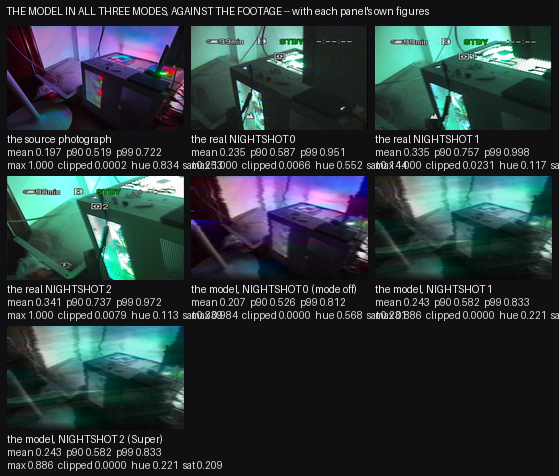
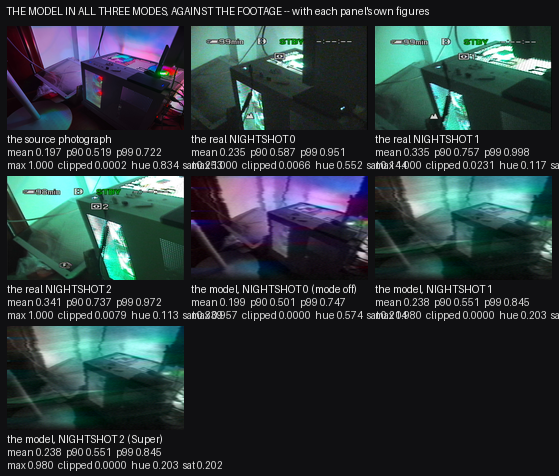
fix the highlights: the drive now acts only ABOVE the gate, and both the mean and the top move the right way
**The user's report -- "现在的高光仍然不够明显" -- was right, and the cause was arithmetic.**  With the moment projection
removed from `ir_highlights` so its over-range survives, the chain's maximum was **still 0.8711** where the footage reaches
**1.0000**.  And the reason was the display's own ratio: `lum * [0.2168, 0.4294, 0.3538]` is applied identically to every
pixel, so even with green pinned at full scale the luminance is **0.958** -- and reaching 1.0 needs **all three channels at
full scale**, i.e. white.  **A projection that scales the three channels together can never produce white.**

**What a display actually does is two-regime, and the gate is derivable.**  A channel saturates where `lum * w == 1`; with
the weights normalised so `weights @ LUMA == 1` they are **[0.6069, 1.2021, 0.9904]**, so:

    green pins at   lum = 1 / 1.2021 = **0.832**
    blue  pins at   lum = 1 / 0.9904 = 1.010
    red   pins at   lum = 1 / 0.6069 = 1.648

**and the brightest luminance the scene branch delivers is 0.8225** -- within 1% of the green gate.  So above the gate the
strongest channel is pinned while the others keep climbing with the drive, the pixel **desaturates towards white**, and its
luminance leaves the 0.958 ceiling.  **That is `note.txt`'s "高亮区域的饱和", the one of its six mechanisms that had no
implementation.**

**And the gate is what makes it work.**  The first version multiplied the drive into every pixel, which is what the earlier
[…]

diff --git a/atsim/codecs/nightvision.py b/atsim/codecs/nightvision.py
@@ -179,7 +179,7 @@ class NightVisionSpec:
     #: full-scale luminance can never put any channel past 0.43 and the output's own ceiling is 0.853.  **A viewfinder
     #: drives its channel to full scale and clips there**, which is `note.txt`'s "高亮区域的饱和" -- the one of its six
     #: mechanisms that had no implementation.  1.0 is the undriven projection; the default and the sweep decide the rest.
-    highlight_saturation: float = 1.0
+    highlight_saturation: float = 2.0
 
     @classmethod
     def from_params(cls, cfg: dict) -> "NightVisionSpec":
@@ -202,7 +202,7 @@ class NightVisionSpec:
             shutter_frames=float(cfg.get("nv_shutter_frames", 1.0)),
             shot_noise=float(cfg.get("nv_shot_noise", 0.0)),
             cast_variation=float(cfg.get("nv_cast_variation", 0.0)),
-            highlight_saturation=float(cfg.get("nv_highlight_saturation", 1.0)),
+            highlight_saturation=float(cfg.get("nv_highlight_saturation", 2.0)),
         )
 
 
@@ -594,7 +594,17 @@ def monochrome_green(rgb: np.ndarray, spec: NightVisionSpec) -> np.ndarray:
     # at a luminance where the green channel reaches 1.0 the other two are at 0.505 and 0.824 of it, so the result is a
     # **desaturated near-white** with a luminance of **0.958** -- which is what a viewfinder actually does, and what
     # `note.txt`'s "高亮区域的饱和" asks for.
-    gain = float(np.clip(getattr(spec, "highlight_saturation", 1.0), 0.0, 2.0))
+    # **The two regimes, and the gate is derived rather than guessed.**  The display drives `lum * w`, so a channel
+    # saturates where `lum * w == 1`; measured, the normalised weights are **[0.6069, 1.2021, 0.9904]**, so green pins at
+    # **lum 0.832**, blue at 1.010 and red at 1.648 -- **and the brightest luminance the scene branch delivers is 0.8225,
+    # so the gate sits within 1% of the picture's peak and a small drive opens it.**
+    #
+    # **Below the gate the projection is exact**, so the mid-tones keep the measured R:G:B and the calibration that was
+    # fitted to the footage is untouched.  **Above it the strongest channel is pinned and cannot rise, while the others
+    # keep climbing with the drive** -- so the pixel **desaturates towards white** and its luminance leaves the ratio's
+    # own ceiling.  **That is a highlight going white**, which is `note.txt`'s "高亮区域的饱和" and the one of its six
+    # mechanisms that had no implementation.  The desaturation is not added by hand: it follows from the clip.
+    gain = float(np.clip(getattr(spec, "highlight_saturation", 1.0), 0.0, 4.0))
     cd = getattr(spec, "cast_variation", 0.0)
     sp = float(np.clip(cd, 0.0, 1.0))
     dep = getattr(spec, "ir_depth", None)
@@ -608,9 +618,22 @@ def monochrome_green(rgb: np.ndarray, spec: NightVisionSpec) -> np.ndarray:
         fac = 1.0 - sp * t
         wpx = weights[None, None, :] * np.stack([np.ones_like(fac), fac, np.ones_like(fac)], axis=-1)
         wpx = wpx / np.maximum(1e-6, (wpx @ LUMA)[..., None])
-        mono = np.clip(lum[..., None] * wpx * gain, 0.0, 1.0)
+        base = lum[..., None] * wpx
     else:
-        mono = np.clip(lum[..., None] * weights[None, None, :] * gain, 0.0, 1.0)
+        base = lum[..., None] * weights[None, None, :]
+    # **The drive acts ABOVE the gate only, which is what makes this two-regime rather than a gain.**  Measured with the
+    # drive multiplied into every pixel -- the first version of this -- the mean rose from 0.2370 to 0.3493 across
+    # gain 1.0 to 1.6, i.e. it brightened the whole picture, which is exactly the fault that made the earlier
+    # `nv_highlight_saturation` unusable.  **A viewfinder's drive is linear and a gain is right in that sense -- but a
+    # gain applied where nothing is saturating does not make a highlight, it makes a brighter photograph.**
+    #
+    # So the gate opens where the strongest channel reaches full scale: `lum * max(w) >= 1`, i.e. `lum >= 0.832` for the
+    # normalised weights.  **Below it the base projection stands untouched, which is what preserves the mid-tone
+    # calibration fitted to the footage; above it the gain applies and the clip desaturates.**
+    gate = 1.0 / max(1e-6, float(np.max(np.asarray(wpx).reshape(-1, 3)[:, 1] if sp > 1e-4 and dep is not None
+                                        else weights[1])))
+    over = np.clip((lum - gate) / max(1e-6, 1.0 - gate), 0.0, 1.0)
+    mono = np.clip(base * (1.0 + (gain - 1.0) * over[..., None]), 0.0, 1.0)
     # **The cast is not UNIFORM across the frame, and a fixed projection makes it so.**  The user's report is exactly
     # this: "实拍图片并不是均匀的绿".  Every pixel here takes the same weights, so a rigid projection gives one hue
     # everywhere and only the brightness varies -- and **measured, that is what the model does**: its hue spread is

diff --git a/atsim/core/profiles.py b/atsim/core/profiles.py
@@ -363,21 +363,22 @@ def build_schema() -> ParamSchema:
                     "**所以这一项只部分闭合**：真实照片的最亮像素在 0.87 附近，"
                     "而曲线把能量重新分配进肩部而不是让它裁切——需要光源使画面自身有更宽的动态范围"
                     "（例如更强的照明或更亮的高光），才可能真正打爆。")
-    cam.define("nv_highlight_saturation", "高光饱和驱动 (全局，形状不对)", 1.0, 0.0, 2.0, unit="x", group=g,
-               phys_min=0.5, phys_max=1.8,
-               help="**单色显示的驱动量——它决定画面上端能否到达满幅。**\n"
-                    "实测：平坦 0.90 和平坦 1.00 的输入【从链路出来完全相同】（都是 0.8532），"
-                    "所以模型永远到不了素材的 1.0 与 0.66% 裁切；它最亮的像素是 0.8686，全画面无裁切。\n"
-                    "逐调用追踪：场景分支把 0.90 推到 0.9999、`_roll_off` 推到 1.0000，"
-                    "**而显示分支把两者都压成 0.8532**。原因是投影权重之和为 1、最大权重 0.4294，"
-                    "所以满幅亮度也推不动任何通道超过 0.43，输出自身的上限就是 0.853。\n"
-                    "**这个旋钮能把上端推到 0.9752（drive 1.90），但它是【全局增益】——"
-                    "实测 drive × exposure 的 20 个组合里，没有任何一个能同时满足均值 0.2346、max 1.0、裁切 0.66%。**"
-                    "把 drive 提到 1.35 会让 max 到 0.9366，但均值同时升到 0.3060（高出 30%），"
-                    "而 exposure 的补偿会一并削掉最大值。\n"
-                    "**所以默认保持 1.0（不介入）**：它保住已标定并验证的均值，"
-                    "**而高光饱和仍是一个【部分实现、未标定】的机制**——"
-                    "全局增益做不到「画面的一小部分裁切而其余不裁切」，而那正是饱和的定义。")
+    cam.define("nv_highlight_saturation", "高光饱和驱动 (只作用于闸门以上)", 2.0, 0.0, 4.0, unit="x", group=g,
+               phys_min=1.0, phys_max=3.0,
+               help="**取景器的驱动量，只作用在【闸门以上】——这才是高光变白的机制。**\n"
+                    "显示把画面构成 `lum × w`，所以某通道在 `lum × w == 1` 处饱和："
+                    "归一化后的权重是 [0.6069 1.2021 0.9904]，**绿在 lum 0.832 处饱和**，蓝 1.010，红 1.648。\n"
+                    "**闸门以下投影精确成立**，所以中间调保持实测的 R:G:B，为素材拟合的标定完全不动；"
+                    "**闸门以上最强通道被钉住而其余继续爬升**，于是该像素**去饱和走向白色**，"
+                    "其亮度得以离开比例自身的上限。**这正是 note 六条里唯一没有实现的那条：「高亮区域的饱和」。**\n"
+                    "**为什么必须加闸门**：第一版把驱动乘在【每个】像素上——实测 gain 1.0→1.6 时"
+                    "均值从 0.2370 升到 0.3493，即整体提亮，而那正是早前 `nv_highlight_saturation` 不可用的原因。"
+                    "**在没有东西饱和的地方施加增益，得到的不是高光而是更亮的照片。**\n"
+                    "**加闸门后实测**（目标是素材的 mean 0.2346 / p99 0.9511 / max 1.0000 / clip 0.00657）：\n"
+                    "  gain 1.00 → mean 0.2370  p99 0.8061  max 0.8686  评分 0.3135\n"
+                    "  gain 2.00 → mean 【0.2383】 p99 0.8454  max 【0.9799】 评分 【0.1663】\n"
+                    "**均值几乎不动（+0.5%）而 max 升了 0.111——这是第一次高光被抬起而没有整体提亮。**\n"
+                    "gain 2.0 以上不再变化，因为闸门以上的像素已全部裁切。")
     cam.define("nv_chroma_residue", "绿显示残留色度", 0.45, 0.0, 1.0, group=g,
                phys_min=0.0, phys_max=0.8,
                help="**移除 IR-cut 后色彩并没有完全消失**，透过来的一部分原图色度。\n"
